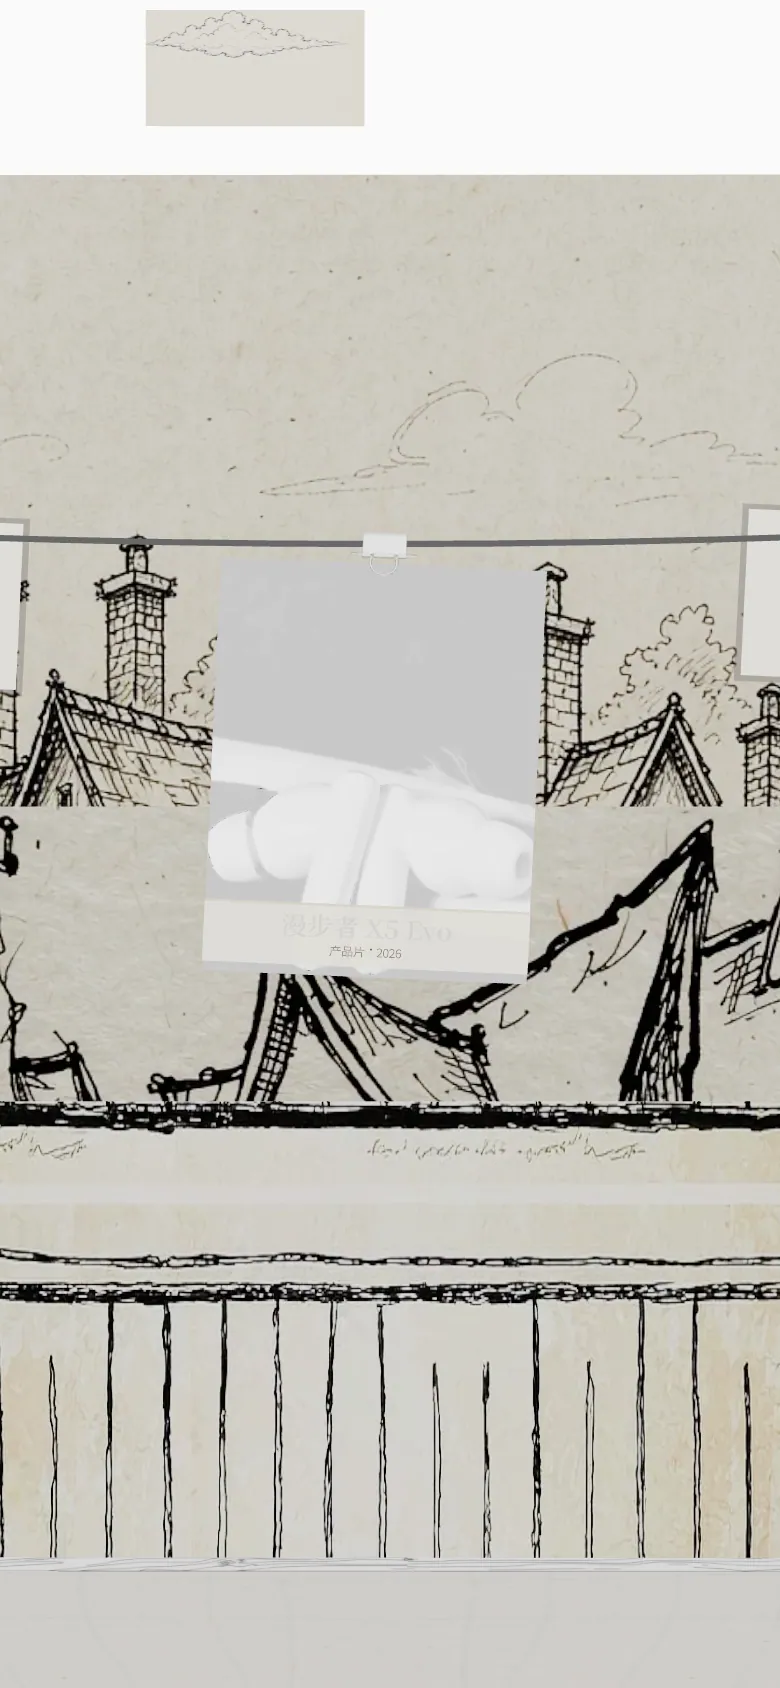
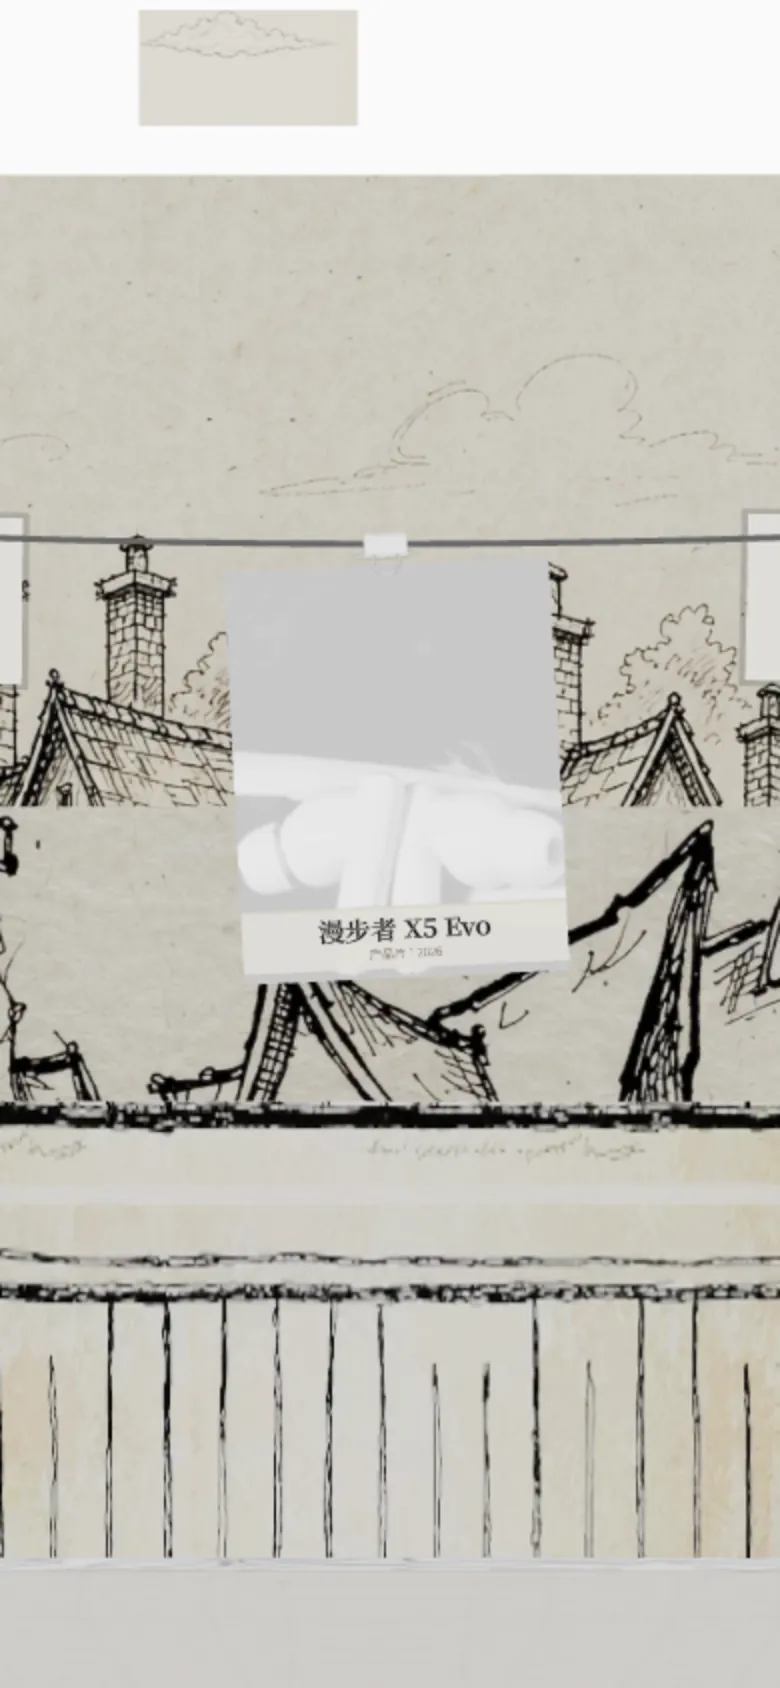
fix: 移动端卡片标题遮挡与入口提示排版
- 抬高卡片标题/分类纸签层级，避免纸面晃动时裁掉文字
- 音频开关去掉彩色 emoji，入口提示保持单行
- 移动端地图关闭按钮触控区扩到 40px
- 按修正后的卡片重新生成桌面/移动入口首帧

diff --git a/src/components/canvas/rooms/Gallery/GalleryRoom.jsx b/src/components/canvas/rooms/Gallery/GalleryRoom.jsx
@@ -1104,7 +1104,7 @@ const ProjectCard = memo(forwardRef(({ index, project, clothespinTexture, curren
             const totalWind = 0.02 + uWindStrength;
             const flutter = Math.sin(uTime * 2.0 + y * 2.0) * totalWind * (1.0 + Math.abs(uBend * 3.0));
 
-            textRef.current.position.z = bendAmount + flutter + 0.02;
+            textRef.current.position.z = bendAmount + flutter + 0.055;
 
             // 旋转文字以贴合曲面（dz/dy 导数）
             const dz_dy = 2.0 * y * uBend + 2.0 * Math.cos(uTime * 2.0 + y * 2.0) * totalWind * (1.0 + Math.abs(uBend * 3.0));
@@ -1514,11 +1514,11 @@ const ProjectCard = memo(forwardRef(({ index, project, clothespinTexture, curren
 
                 {/* 卡片内底部纸签：裁成照片下缘的说明条，保证每张卡都看得到标题 */}
                 <group visible={!isSelected && !isAnimating}>
-                    <mesh position={[0, -0.8, 0.012]}>
+                    <mesh position={[0, -0.8, 0.008]}>
                         <planeGeometry args={[1.5, 0.3]} />
                         <meshBasicMaterial color="#f5eedf" transparent opacity={0.94} />
                     </mesh>
-                    <mesh position={[0, -0.655, 0.016]}>
+                    <mesh position={[0, -0.655, 0.012]}>
                         <planeGeometry args={[1.5, 0.012]} />
                         <meshBasicMaterial color="#d8ccb6" transparent opacity={0.7} />
                     </mesh>
@@ -1538,7 +1538,7 @@ const ProjectCard = memo(forwardRef(({ index, project, clothespinTexture, curren
                     </GalleryText>
                     <GalleryText
                         ref={labelMetaTextRef}
-                        position={[0, -0.875, 0.022]}
+                        position={[0, -0.875, 0.06]}
                         fontSize={0.055}
                         color="#6b6254"
                         font="/fonts/NotoSansSC.ttf"

diff --git a/src/styles/AchievementPopup.scss b/src/styles/AchievementPopup.scss
@@ -190,6 +190,8 @@
     @media (max-width: 768px) {
         bottom: 24px;
         padding: 10px 16px;
+        width: max-content;
+        max-width: calc(100vw - 32px);
 
         .text-content {
             .title {
@@ -199,6 +201,10 @@
             .description {
                 font-size: 12px;
             }
+        }
+
+        &.interactive .text-content .description {
+            white-space: nowrap;
         }
     }
 }

diff --git a/src/components/ui/AchievementPopup.jsx b/src/components/ui/AchievementPopup.jsx
@@ -88,7 +88,7 @@ const AchievementPopup = () => {
                                     }
                                 }}
                             >
-                                {!isMuted ? " [🔊 开]" : " [🔇 关]"}
+                                {!isMuted ? " [开]" : " [关]"}
                             </button>
                         </span>
                     )}

diff --git a/src/styles/NavigationUI.scss b/src/styles/NavigationUI.scss
@@ -760,9 +760,14 @@
             font-size: 14px;
         }
 
-        .close-btn {
-            width: 28px;
-            height: 28px;
+        .map-header .close-btn {
+            width: 40px;
+            height: 40px;
+        }
+
+        .map-header .close-btn svg {
+            width: 22px;
+            height: 22px;
         }
     }
 
